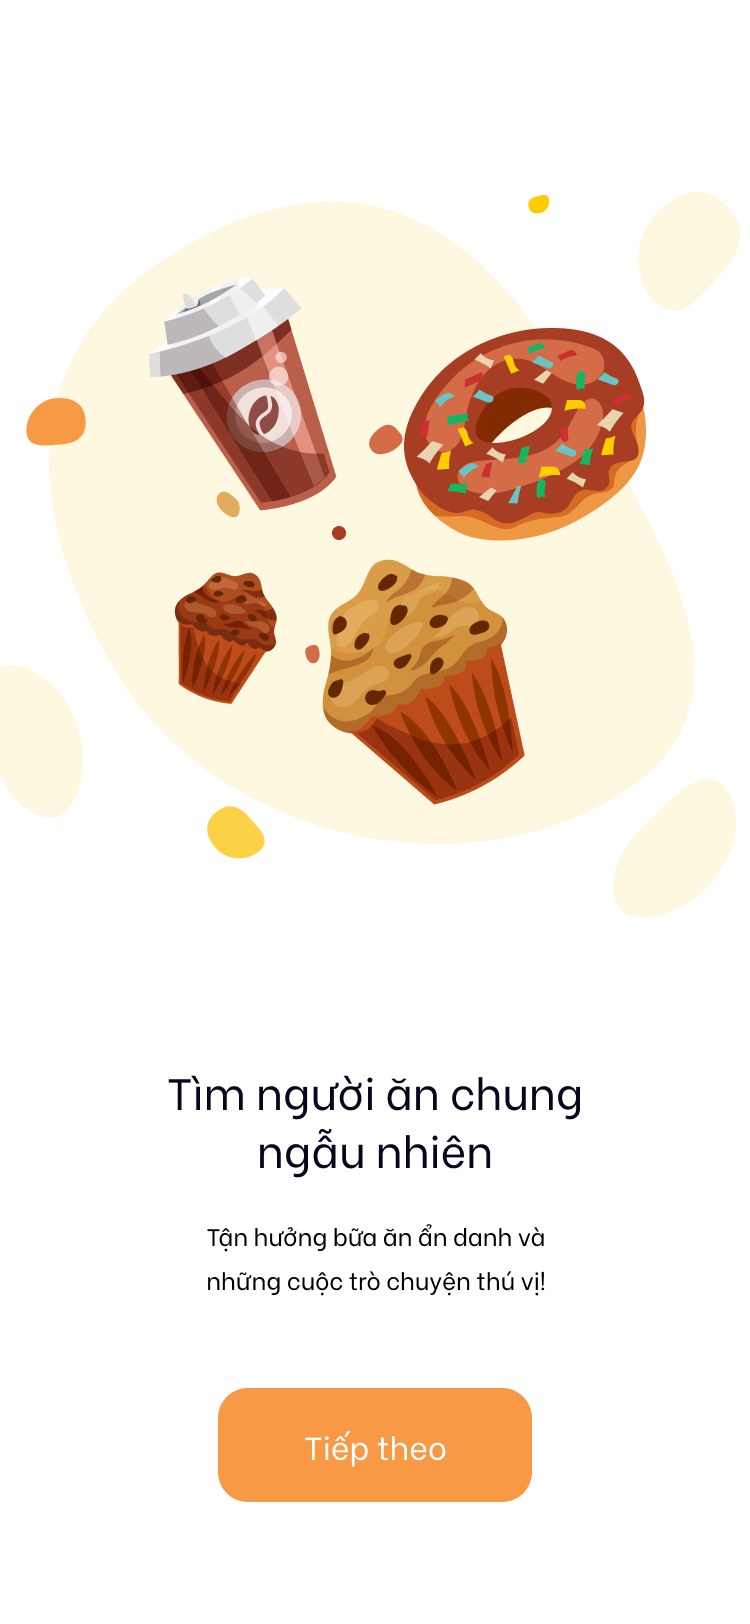
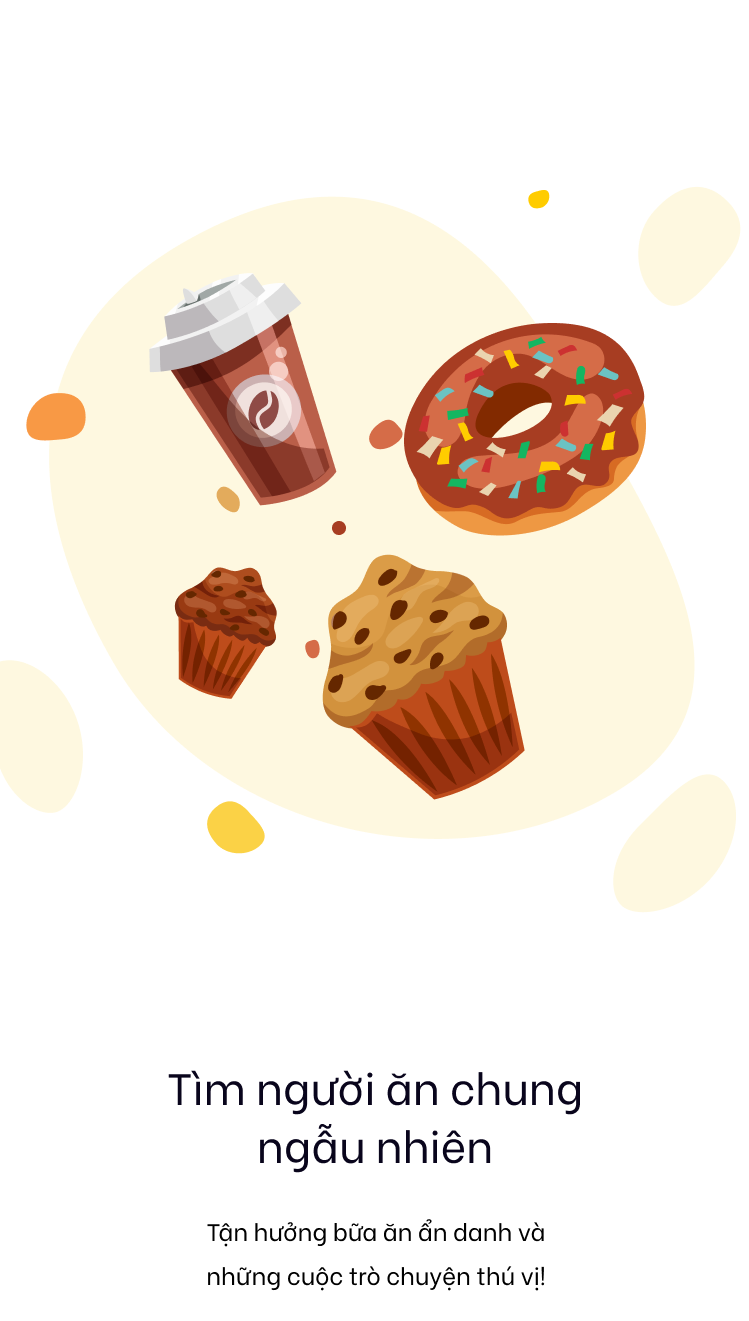
fix: intro page

diff --git a/src/ui/pages/introduction/containers/IntroductionContainer.tsx b/src/ui/pages/introduction/containers/IntroductionContainer.tsx
@@ -40,7 +40,13 @@ const IntroductionContainer = () => {
         <div className="inner_introduction">
           <div className="icon">
             {' '}
-            <img className="w-full" src={IntroductionImage} alt="" onClick={() => navigate(ROUTES.HOME)}/>
+            <img className="w-full" src={IntroductionImage} alt="" />
+            <button
+                className={`btn btn-primary w-100 btn-intro`}
+                onClick={() => navigate(ROUTES.HOME)}
+              >
+                Tiếp theo
+              </button>
           </div>
         </div>
       </div>

diff --git a/src/ui/pages/booking/containers/BookingContainer.tsx b/src/ui/pages/booking/containers/BookingContainer.tsx
@@ -74,7 +74,7 @@ const BookingContainer = () => {
         text: "Tạo cuộc hẹn thành công",
         type: "success",
       });
-      setTimeout(() => navigate(ROUTES.BOOKING_LIST), 2000);
+      // setTimeout(() => navigate(ROUTES.BOOKING_LIST), 2000);
     })
   };
 

diff --git a/src/ui/assets/scss/common/_btn.scss b/src/ui/assets/scss/common/_btn.scss
@@ -26,6 +26,12 @@
 			background-color: $text_400;
 			pointer-events: none;
 		}
+    &.btn-intro{
+      font-size: 14px;
+      padding: 12px;
+      height: auto;
+      margin-top: 16px;
+    }
 	}
 	&-red {
 	  background-color: #FF4B38;

diff --git a/src/ui/assets/scss/component/_loading_page.scss b/src/ui/assets/scss/component/_loading_page.scss
@@ -18,6 +18,6 @@
     //   height: 100%;
     // }
     position: relative;
-    top: -20px;
+    top: -50px;
   }
 }
